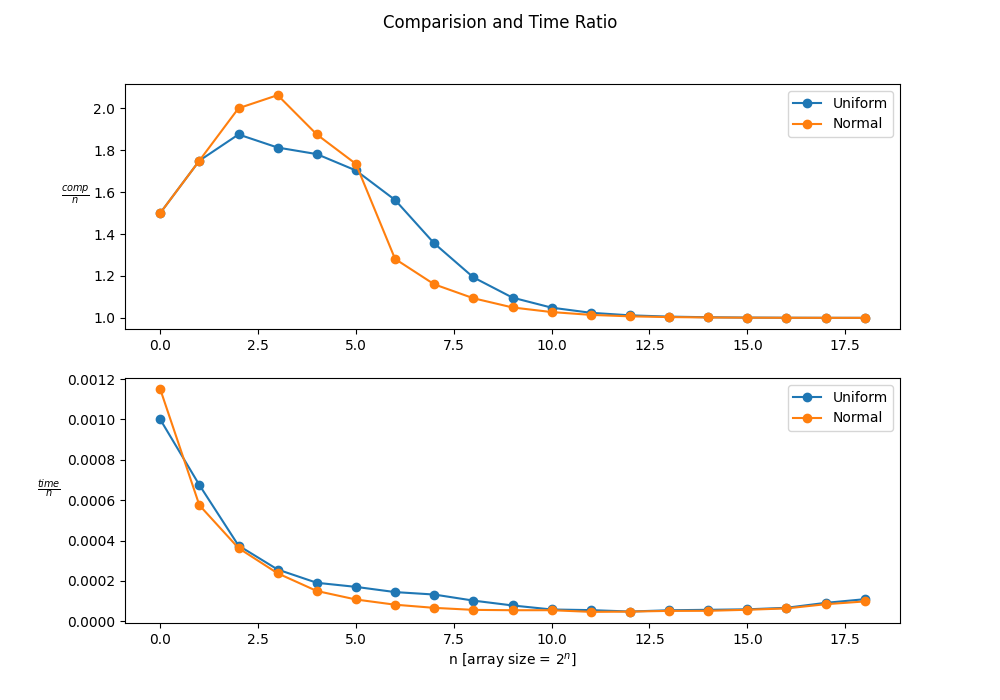
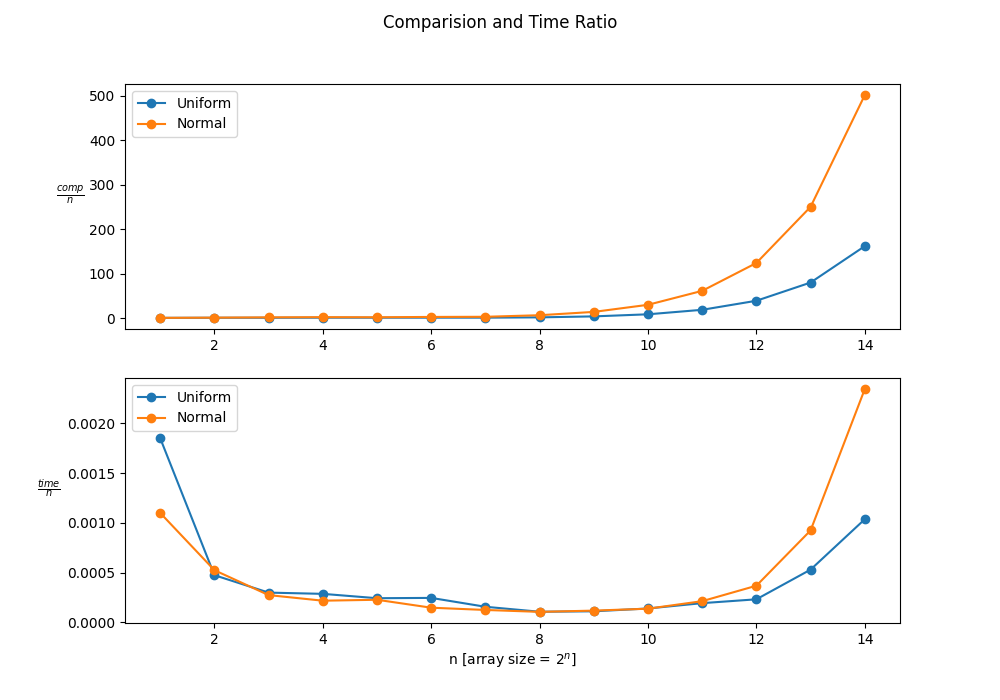
Problem 3 coding done

diff --git a/Assignment 1/Question 5 and 6 Bucket Sort/Bucket Sort/bucket_sort.c b/Assignment 1/Question 5 and 6 Bucket Sort/Bucket Sort/bucket_sort.c
@@ -9,7 +9,7 @@ typedef struct LL
     struct LL *next;
 } node;
 
-node *LL_insert_sorted(node *list, float d, int *count)
+node *LL_insert(node *list, float d, int *count)
 {
     node *new_node = (node *)malloc(sizeof(node));
     new_node->next = NULL;
@@ -20,40 +20,80 @@ node *LL_insert_sorted(node *list, float d, int *count)
         list = new_node;
         (*count)++;
     }
-    else if (new_node->data < list->data)
-    {
-        new_node->next = list;
-        list = new_node;
-        (*count)++;
-    }
     else
     {
         node *temp = list;
 
-        while ((temp->next != NULL) && (!((temp->data <= new_node->data) && ((temp->next)->data >= new_node->data))))
+        while (temp->next != NULL)
         {
             temp = temp->next;
             (*count) += 2;
         }
 
-        new_node->next = temp->next;
         temp->next = new_node;
     }
 
     return list;
 }
 
-// void showLL(node *list)
-// {
-//     node *temp = list;
+void sortedInsert( node **head_ref,  node *new_node)
+{
+    node *current;
+    /* Special case for the head end */
+    if (*head_ref == NULL || (*head_ref)->data >= new_node->data)
+    {
+        new_node->next = *head_ref;
+        *head_ref = new_node;
+    }
+    else
+    {
+        /* Locate the node before the point of insertion */
+        current = *head_ref;
+        while (current->next != NULL &&
+               current->next->data < new_node->data)
+        {
+            current = current->next;
+        }
+        new_node->next = current->next;
+        current->next = new_node;
+    }
+}
 
-//     while (temp != NULL)
-//     {
-//         printf("%0.2f->", temp->data);
-//         temp = temp->next;
-//     }
-//     printf("NULL\n");
-// }
+void insertionSort(node **head_ref)
+{
+    // Initialize sorted linked list
+    node *sorted = NULL;
+
+    // Traverse the given linked list and insert every
+    // node to sorted
+    node *current = *head_ref;
+    while (current != NULL)
+    {
+        // Store next for next iteration
+        node *next = current->next;
+
+        // insert current in sorted linked list
+        sortedInsert(&sorted, current);
+
+        // Update current
+        current = next;
+    }
+
+    // Update head_ref to point to sorted linked list
+    *head_ref = sorted;
+}
+
+void showLL(node *list)
+{
+    node *temp = list;
+
+    while (temp != NULL)
+    {
+        printf("%0.2f->", temp->data);
+        temp = temp->next;
+    }
+    printf("NULL\n");
+}
 
 node *delete_start(node *list, float *d)
 {
@@ -78,10 +118,11 @@ void bucket_sort(float *arr, int n, int *count)
     for (int i = 0; i < n; i++)
     {
         pos = floor(n * arr[i]);
-
-        bins[pos] = LL_insert_sorted(bins[pos], arr[i], count);
-        (*count)++;
+        bins[pos] = LL_insert(bins[pos], arr[i], count);
     }
+
+    for (int i = 0; i < n; i++)
+        insertionSort(&bins[i]);
 
     pos = 0;
     float temp;
@@ -149,8 +190,8 @@ void main()
 {
     srand(time(0));
 
-    int max_p = 19;
-    int num_iter_power = 100;
+    int max_p = 14;
+    int num_iter_power = 10;
 
     FILE *fout = fopen("bucket_normal_obs.csv", "w");
 
@@ -203,4 +244,5 @@ void main()
     }
 
     fclose(fout);
+
 }

diff --git a/Assignment 1/Question 5 and 6 Bucket Sort/Bucket Sort/plotter.py b/Assignment 1/Question 5 and 6 Bucket Sort/Bucket Sort/plotter.py
@@ -19,18 +19,19 @@ time_normal = normal_df['avg_time'].to_numpy()
 comp_ratio_normal = comp_normal/(n_normal)
 time_ratio_normal = time_normal/(n_normal)
 
-
 fig, axis = plt.subplots(2, 1, figsize=(10, 7))
 
 fig.suptitle('Comparision and Time Ratio')
 
-axis[0].plot(comp_ratio_uniform, 'o-', label='Uniform')
-axis[0].plot(comp_ratio_normal, 'o-', label='Normal')
+x_axis = range(1,15)
+
+axis[0].plot(x_axis,comp_ratio_uniform, 'o-', label='Uniform')
+axis[0].plot(x_axis,comp_ratio_normal, 'o-', label='Normal')
 axis[0].legend()
 axis[0].set_ylabel(r'$\frac{comp}{n}$', rotation=0, labelpad=13)
 
-axis[1].plot(time_ratio_uniform, 'o-', label='Uniform')
-axis[1].plot(time_ratio_normal, 'o-', label = 'Normal')
+axis[1].plot(x_axis,time_ratio_uniform, 'o-', label='Uniform')
+axis[1].plot(x_axis,time_ratio_normal, 'o-', label = 'Normal')
 axis[1].legend()
 axis[1].set_ylabel(r'$\frac{time}{n}$', rotation=0, labelpad=13)
 
